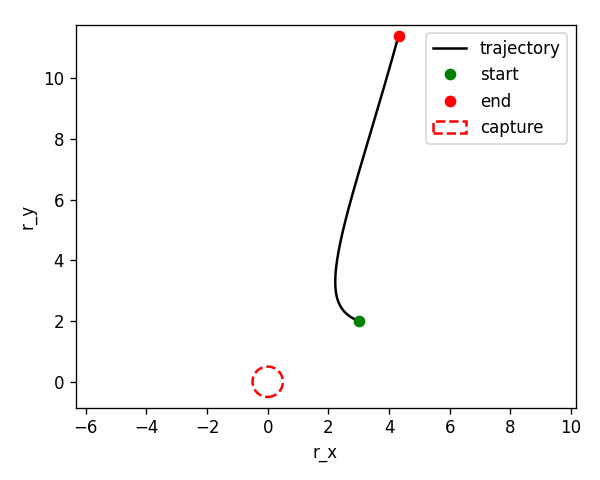
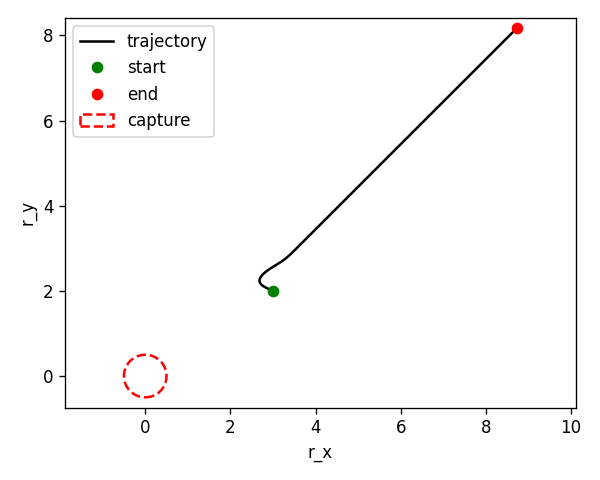
Add velocity bounds to simulation and grid generation

diff --git a/pe_hji/sim.py b/pe_hji/sim.py
@@ -80,7 +80,7 @@ def _interp_scalar(V: np.ndarray, grid: Grid4D, coords):
 	return V_interp
 
 
-def simulate_closed_loop(V: np.ndarray, grid: Grid4D, state0: np.ndarray, a_p_max: float, a_e_max: float, dt: float, steps: int, capture_radius: float, p0=None, e0=None, t_max=None) -> dict:
+def simulate_closed_loop(V: np.ndarray, grid: Grid4D, state0: np.ndarray, a_p_max: float, a_e_max: float, dt: float, steps: int, capture_radius: float, p0=None, e0=None, t_max=None, v_p_bounds=None, v_e_bounds=None) -> dict:
 	# Initialize relative state and absolute pursuer/evader states
 	state = state0.astype(float).copy()
 	if p0 is None:
@@ -91,46 +91,54 @@ def simulate_closed_loop(V: np.ndarray, grid: Grid4D, state0: np.ndarray, a_p_ma
 		e_state = np.array([state[0], state[1], state[2], state[3]], dtype=float)
 	else:
 		e_state = np.array(e0, dtype=float).copy()
+	# Clip initial velocities if bounds provided
+	if v_p_bounds is not None:
+		p_state[2] = float(np.clip(p_state[2], v_p_bounds[0], v_p_bounds[1]))
+		p_state[3] = float(np.clip(p_state[3], v_p_bounds[0], v_p_bounds[1]))
+	if v_e_bounds is not None:
+		e_state[2] = float(np.clip(e_state[2], v_e_bounds[0], v_e_bounds[1]))
+		e_state[3] = float(np.clip(e_state[3], v_e_bounds[0], v_e_bounds[1]))
 
-	traj_rel = [state.copy()]
+	traj_rel = [np.array([e_state[0]-p_state[0], e_state[1]-p_state[1], e_state[2]-p_state[2], e_state[3]-p_state[3]], dtype=float)]
 	traj_p = [p_state.copy()]
 	traj_e = [e_state.copy()]
 	outcome = None
 	T = 0.0
 	for k in range(steps):
+		# Build relative state used for feedback
+		state = np.array([e_state[0]-p_state[0], e_state[1]-p_state[1], e_state[2]-p_state[2], e_state[3]-p_state[3]], dtype=float)
 		_, gvx, gvy = _interp_central_gradients(V, grid, state)
 		# Feedback controls
 		ap, ae = optimal_controls_from_gradient(gvx, gvy, a_p_max, a_e_max)
 		ap = ap.reshape(2)
 		ae = ae.reshape(2)
-		# Relative dynamics f(x) = [v_rel, a_e - a_p]
-		def f_rel(x):
-			return np.array([x[2], x[3], ae[0] - ap[0], ae[1] - ap[1]], dtype=float)
 		# Absolute dynamics for pursuer and evader
 		def f_p(x):
 			return np.array([x[2], x[3], ap[0], ap[1]], dtype=float)
 		def f_e(x):
 			return np.array([x[2], x[3], ae[0], ae[1]], dtype=float)
 		# RK4 with frozen controls over step
-		k1r = f_rel(state)
 		k1p = f_p(p_state)
 		k1e = f_e(e_state)
-		k2r = f_rel(state + 0.5 * dt * k1r)
 		k2p = f_p(p_state + 0.5 * dt * k1p)
 		k2e = f_e(e_state + 0.5 * dt * k1e)
-		k3r = f_rel(state + 0.5 * dt * k2r)
 		k3p = f_p(p_state + 0.5 * dt * k2p)
 		k3e = f_e(e_state + 0.5 * dt * k2e)
-		k4r = f_rel(state + dt * k3r)
 		k4p = f_p(p_state + dt * k3p)
 		k4e = f_e(e_state + dt * k3e)
-		state = state + (dt / 6.0) * (k1r + 2*k2r + 2*k3r + k4r)
 		p_state = p_state + (dt / 6.0) * (k1p + 2*k2p + 2*k3p + k4p)
 		e_state = e_state + (dt / 6.0) * (k1e + 2*k2e + 2*k3e + k4e)
+		# Enforce per-agent velocity bounds if provided
+		if v_p_bounds is not None:
+			p_state[2] = float(np.clip(p_state[2], v_p_bounds[0], v_p_bounds[1]))
+			p_state[3] = float(np.clip(p_state[3], v_p_bounds[0], v_p_bounds[1]))
+		if v_e_bounds is not None:
+			e_state[2] = float(np.clip(e_state[2], v_e_bounds[0], v_e_bounds[1]))
+			e_state[3] = float(np.clip(e_state[3], v_e_bounds[0], v_e_bounds[1]))
+
 		T += dt
-		# Synchronize relative from absolute to reduce drift
-		state[0:2] = e_state[0:2] - p_state[0:2]
-		state[2:4] = e_state[2:4] - p_state[2:4]
+		# Build new relative state
+		state = np.array([e_state[0]-p_state[0], e_state[1]-p_state[1], e_state[2]-p_state[2], e_state[3]-p_state[3]], dtype=float)
 
 		traj_rel.append(state.copy())
 		traj_p.append(p_state.copy())

diff --git a/run_example.py b/run_example.py
@@ -3,23 +3,29 @@ from pe_hji import Grid4D, solve_hji_lax_friedrichs, simulate_closed_loop, plot_
 
 
 def main():
+	# Agent velocity bounds
+	v_p_bounds = (-1.5, 1.5)
+	v_e_bounds = (-0.8, 0.8)
+	# Relative velocity bounds for grid should cover possible differences
+	rv_bounds = (v_e_bounds[0]-v_p_bounds[1], v_e_bounds[1]-v_p_bounds[0])
+
 	# Problem setup
 	r_bounds = (-5.0, 5.0)
-	v_bounds = (-2.0, 2.0)
 	n_r = 21
 	n_v = 21
-	grid = Grid4D(r_bounds=r_bounds, v_bounds=v_bounds, n_r=n_r, n_v=n_v)
+	grid = Grid4D(r_bounds=r_bounds, v_bounds=rv_bounds, n_r=n_r, n_v=n_v)
 
 	capture_radius = 0.5
 	a_p_max = 1.0
 	a_e_max = 0.8
+	print(f"Using v_p_bounds={v_p_bounds}, v_e_bounds={v_e_bounds}, relative v bounds={rv_bounds}")
 
 	# Solve HJI for a small horizon for speed
 	V = solve_hji_lax_friedrichs(grid, capture_radius=capture_radius, a_p_max=a_p_max, a_e_max=a_e_max, t_max=0.8, dt=0.05, verbose=True)
 
 	# Simulate closed-loop from a sample initial relative state [rx, ry, rvx, rvy]
 	state0 = np.array([3.0, 2.0, -0.5, 0.2])
-	sim = simulate_closed_loop(V, grid, state0, a_p_max=a_p_max, a_e_max=a_e_max, dt=0.05, steps=2000, capture_radius=capture_radius, t_max=10.0)
+	sim = simulate_closed_loop(V, grid, state0, a_p_max=a_p_max, a_e_max=a_e_max, dt=0.05, steps=2000, capture_radius=capture_radius, t_max=10.0, v_p_bounds=v_p_bounds, v_e_bounds=v_e_bounds)
 
 	traj = sim["traj"]
 	print(f"Outcome: {sim['outcome']} at T={sim['T']:.2f}s, steps={sim['steps']}")
